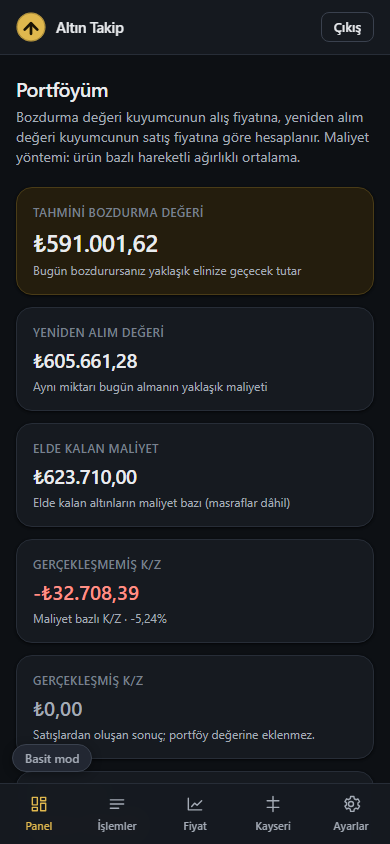
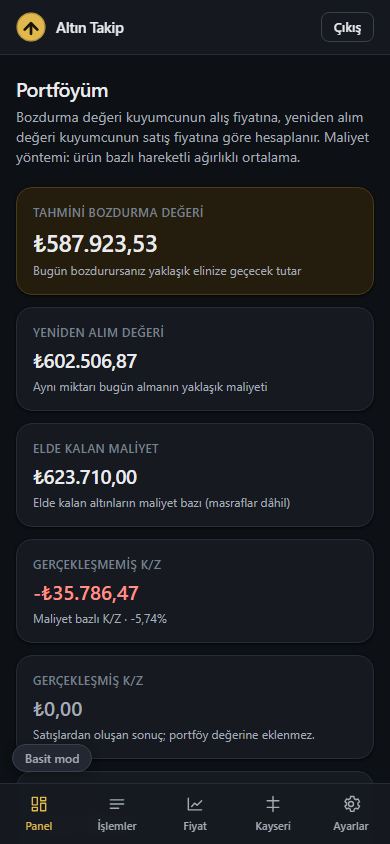
Milyonlu tutarlar kartta kesilmiyor: punto metnin uzunluguna gore
Kullanici bildirdi: "8.958.184,3..." -- son basamaklar kartin disinda kaliyor
ve gorunmuyordu. Eksik okunan bir tutar YANLIS bir tutardir.

Punto artik METNIN UZUNLUGUNA gore secilir (moneySizeClass):
  <=12 karakter  buyuk punto (mevcut gorunum korunur)
  13-15          bir kademe kucuk  ("₺8.958.184,32", "-₺1.129.215,66")
  >=16           iki kademe kucuk  ("₺123.456.789,01")

Neden kap sorgusu (cqi) DEGIL: ilk denemede kutu genisligine gore olceklendirdim,
ama sorun kutunun darligi degil metnin uzunlugu -- genis bir kartta bile 14
haneli tutar tasiyor. Uzunluk esasli karar ayrica deterministiktir: sunucu ve
istemci render'i ayni sonucu verir, hidrasyon uyusmazligi olmaz. Olcum/JS
hilesi de gerekmez.

Son guvenlik agi olarak `overflow-wrap: anywhere`: tarayici "1.234.567,89"
icinde kirma noktasi bulamaz; tasip basamak kaybetmektense alta sarsin.

Dogrulama: npm run verify temiz (708 test / 38 dosya).

diff --git a/src/components/dashboard-view.tsx b/src/components/dashboard-view.tsx
@@ -34,32 +34,33 @@ import { usePortfolio } from "@/state/portfolio-store";
 import { useViewMode } from "@/state/view-mode";
 import { PortfolioChart } from "./portfolio-chart";
 import { PriceSourceLine } from "./price-source-line";
-import { Card, DeltaValue, EmptyState, SectionTitle, cx } from "./ui";
+import { Card, DeltaValue, EmptyState, SectionTitle, cx, moneySizeClass } from "./ui";
 
 const PRICE_UNAVAILABLE = PRICE_UNAVAILABLE_LABEL;
 
 function StatCard({
   label,
   value,
+  valueText,
   hint,
   emphasis,
   testId,
 }: {
   label: string;
   value: ReactNode;
+  /** Punto seçimi için düz metin; `value` bir bileşense verilmelidir. */
+  valueText?: string;
   hint?: string;
   emphasis?: boolean;
   testId: string;
 }) {
+  const sizing = moneySizeClass(valueText ?? (typeof value === "string" ? value : ""), emphasis === true);
   return (
     <Card className={cx("p-4", emphasis && "border-accent-line bg-accent-soft")}>
       <p className="text-xs font-semibold uppercase tracking-wide text-subtle">{label}</p>
       <p
         data-testid={testId}
-        className={cx(
-          "tabular mt-1.5 font-semibold tracking-tight text-ink",
-          emphasis ? "text-2xl sm:text-3xl" : "text-xl sm:text-2xl",
-        )}
+        className={cx("tabular stat-value mt-1.5 font-semibold tracking-tight text-ink", sizing)}
       >
         {value}
       </p>
@@ -366,7 +367,10 @@ export function DashboardView({ addHref, onAdd }: { addHref?: string; onAdd?: ()
         {isSimple ? (
           <Card className="p-4">
             <p className="text-xs font-semibold uppercase tracking-wide text-subtle">Kâr/Zarar{partialSuffix}</p>
-            <p data-testid="stat-simple-pnl" className="mt-1.5 text-xl font-semibold sm:text-2xl">
+            <p
+                data-testid="stat-simple-pnl"
+                className={cx("stat-value mt-1.5 font-semibold", moneySizeClass(formatSignedMoney(summary.totalPnl)))}
+              >
               {isEmpty || priceOk ? (
                 <DeltaValue value={summary.totalPnl} formatted={formatSignedMoney(summary.totalPnl)} />
               ) : (
@@ -386,7 +390,10 @@ export function DashboardView({ addHref, onAdd }: { addHref?: string; onAdd?: ()
               <p className="text-xs font-semibold uppercase tracking-wide text-subtle">
                 Gerçekleşmemiş K/Z{partialSuffix}
               </p>
-              <p data-testid="stat-unrealized" className="mt-1.5 text-xl font-semibold sm:text-2xl">
+              <p
+                data-testid="stat-unrealized"
+                className={cx("stat-value mt-1.5 font-semibold", moneySizeClass(formatSignedMoney(summary.totalUnrealizedPnl)))}
+              >
                 {isEmpty || priceOk ? (
                   <DeltaValue
                     value={summary.totalUnrealizedPnl}
@@ -405,7 +412,10 @@ export function DashboardView({ addHref, onAdd }: { addHref?: string; onAdd?: ()
             </Card>
             <Card className="p-4">
               <p className="text-xs font-semibold uppercase tracking-wide text-subtle">Gerçekleşmiş K/Z</p>
-              <p data-testid="stat-realized" className="mt-1.5 text-xl font-semibold sm:text-2xl">
+              <p
+                data-testid="stat-realized"
+                className={cx("stat-value mt-1.5 font-semibold", moneySizeClass(formatSignedMoney(summary.totalRealizedPnl)))}
+              >
                 <DeltaValue value={summary.totalRealizedPnl} formatted={formatSignedMoney(summary.totalRealizedPnl)} />
               </p>
               <p className="mt-1 text-xs text-muted">
@@ -415,7 +425,10 @@ export function DashboardView({ addHref, onAdd }: { addHref?: string; onAdd?: ()
             </Card>
             <Card className="p-4">
               <p className="text-xs font-semibold uppercase tracking-wide text-subtle">Toplam K/Z{partialSuffix}</p>
-              <p data-testid="stat-total-pnl" className="mt-1.5 text-xl font-semibold sm:text-2xl">
+              <p
+                data-testid="stat-total-pnl"
+                className={cx("stat-value mt-1.5 font-semibold", moneySizeClass(formatSignedMoney(summary.totalPnl)))}
+              >
                 {isEmpty || priceOk ? (
                   <DeltaValue value={summary.totalPnl} formatted={formatSignedMoney(summary.totalPnl)} />
                 ) : (

diff --git a/src/components/ui.tsx b/src/components/ui.tsx
@@ -196,3 +196,24 @@ export function DeltaValue({
     </span>
   );
 }
+
+/**
+ * PARASAL RAKAMIN PUNTOSU — METNİN UZUNLUĞUNA GÖRE.
+ *
+ * "₺8.958.184,32" (13 karakter) sabit puntoda kartı taşırıyor ve son
+ * basamaklar görünmüyordu. Eksik okunan bir tutar, yanlış bir tutardır.
+ *
+ * Ölçüm/JS hilesi yok: karar yalnızca karakter sayısına bakar, bu yüzden
+ * sunucu ve istemci render'ı aynı sonucu verir (hidrasyon uyuşmazlığı olmaz).
+ * Eşikler Türkçe biçimlendirmeye göre seçildi:
+ *   ₺123.456,78      → 11  (rahat)
+ *   ₺8.958.184,32    → 13  (milyon)
+ *   -₺1.129.215,66   → 14  (işaretli milyon)
+ *   ₺123.456.789,01  → 15+ (yüz milyon)
+ */
+export function moneySizeClass(text: string, emphasis = false): string {
+  const length = text.length;
+  if (length >= 16) return emphasis ? "text-lg sm:text-xl" : "text-base sm:text-lg";
+  if (length >= 13) return emphasis ? "text-xl sm:text-2xl" : "text-lg sm:text-xl";
+  return emphasis ? "text-2xl sm:text-3xl" : "text-xl sm:text-2xl";
+}

diff --git a/src/app/globals.css b/src/app/globals.css
@@ -98,6 +98,25 @@ body {
   font-feature-settings: "tnum" 1;
 }
 
+/*
+ * PARASAL BÜYÜK RAKAM — METNİN UZUNLUĞUNA GÖRE ÖLÇEKLENİR.
+ *
+ * Sabit punto ile "₺8.958.184,32" gibi 8+ haneli tutarlar kartın dışına taşıp
+ * SON BASAMAKLARI kaybediyordu; kullanıcı eksik sayı okuyordu.
+ *
+ * Neden kap sorgusu (`cqi`) DEĞİL: sorun kutunun darlığı değil, metnin
+ * uzunluğu. Geniş bir kartta bile 14 haneli tutar taşar. Punto bu yüzden
+ * React tarafında METNİN UZUNLUĞUNA göre seçilir (`moneySizeClass`), böylece
+ * karar deterministiktir ve ölçüm/JS hilesi gerektirmez.
+ *
+ * `overflow-wrap: anywhere` son güvenlik ağıdır: tarayıcı "1.234.567,89"
+ * içinde kırma noktası bulamaz; taşıp basamak kaybetmektense alta sarsın.
+ */
+.stat-value {
+  line-height: 1.15;
+  overflow-wrap: anywhere;
+}
+
 :where(a, button, input, select, textarea, summary, [tabindex]):focus-visible {
   outline: 2px solid var(--focus);
   outline-offset: 2px;
